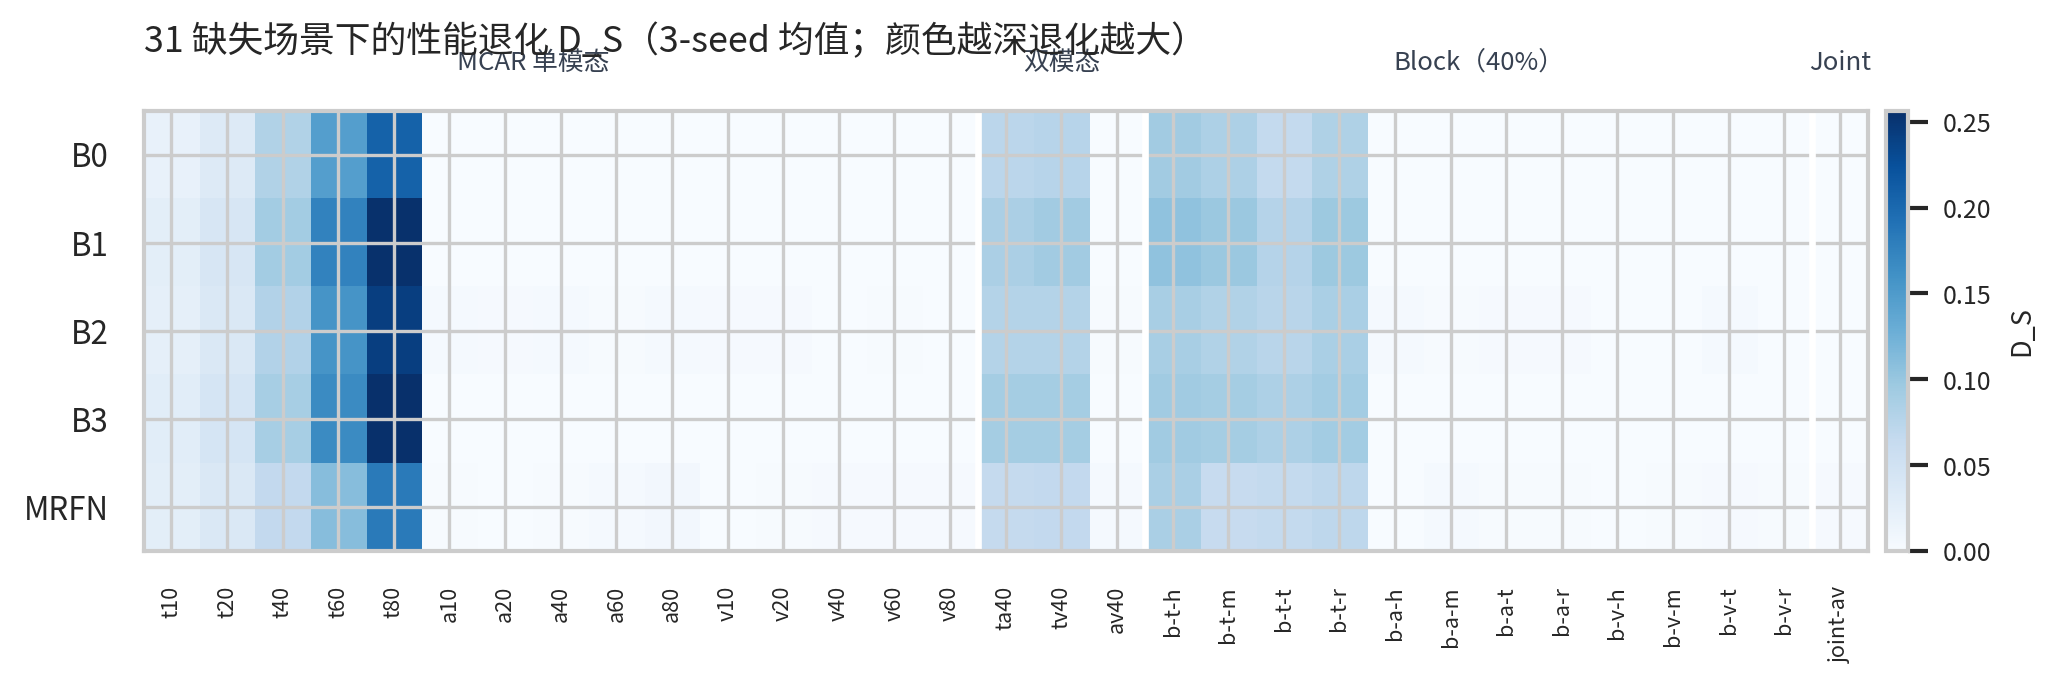
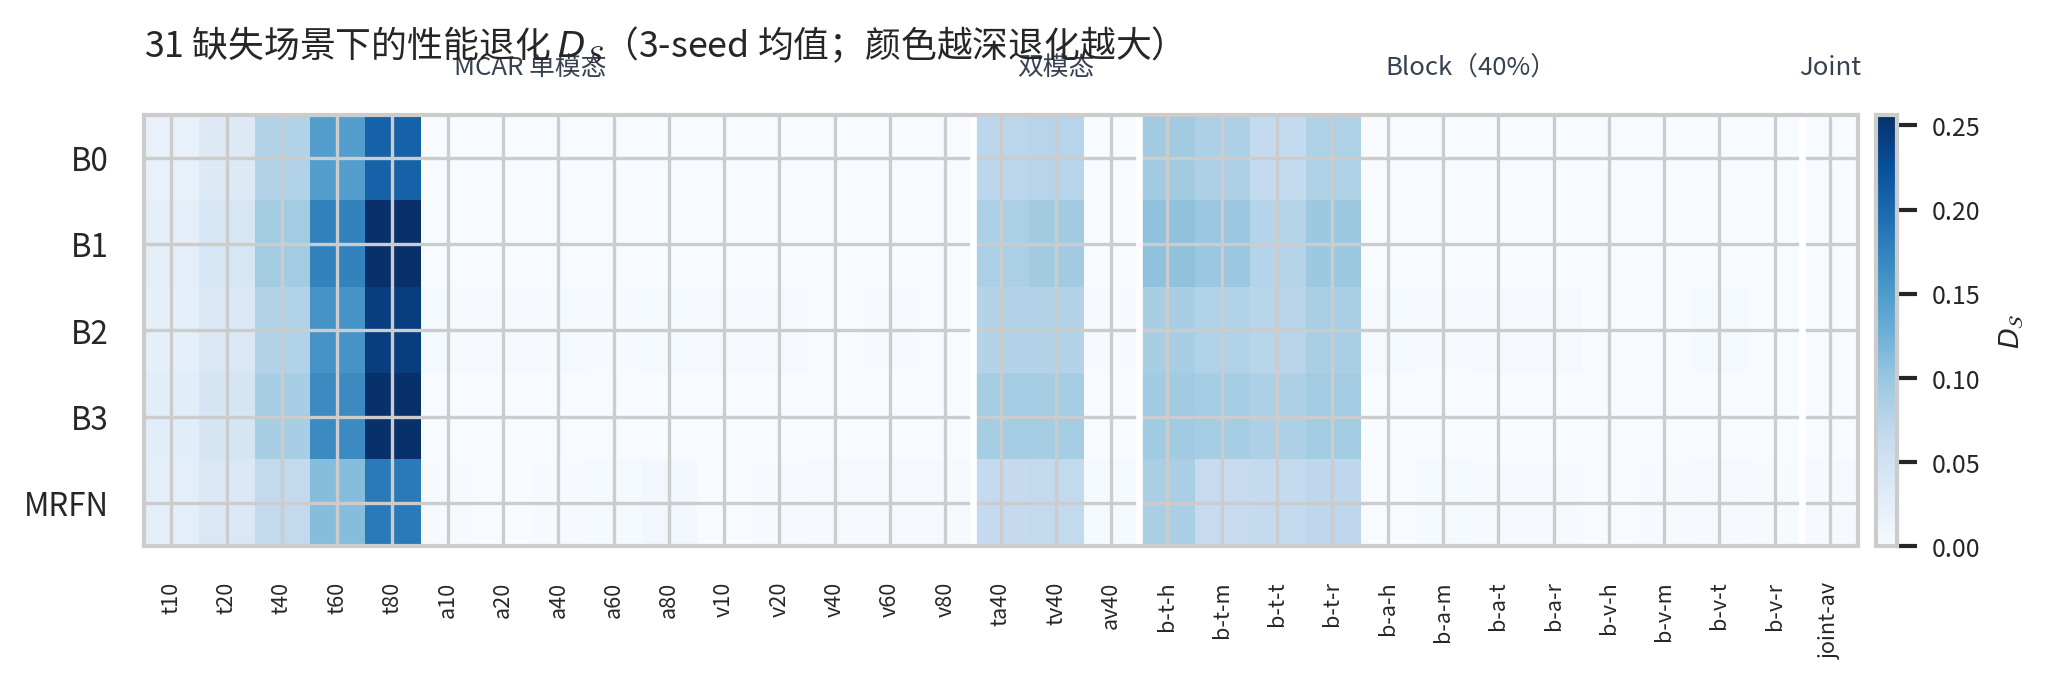
fix(paper): 5.1 可用性下限口径修正（31 场景全部满足；三模态全缺失不入网格）+ D_𝒮 显示串对齐
核对 plot_q2_results.py 冻结网格定义：31=M CAR 单模态×15+双模态@40×3+Block×12+joint-av×1，
无三模态场景，5.1 豁免条款据实修正

diff --git a/scripts/figures/plot_q2_results.py b/scripts/figures/plot_q2_results.py
@@ -123,11 +123,11 @@ def plot_scenario_heatmap() -> None:
         ax.axvline(x, color="white", lw=1.6)
     for txt, x in [("MCAR 单模态", 6.5), ("双模态", 16), ("Block（40%）", 23.5), ("Joint", 30)]:
         ax.text(x, -0.9, txt, ha="center", va="bottom", fontsize=6.2, color="#374151")
-    ax.set_title("31 缺失场景下的性能退化 D_S（3-seed 均值；颜色越深退化越大）",
+    ax.set_title("31 缺失场景下的性能退化 $D_{\\mathcal{S}}$（3-seed 均值；颜色越深退化越大）",
                  loc="left", fontsize=8.6, pad=14)
     cbar = fig.colorbar(im, ax=ax, fraction=0.03, pad=0.01)
     cbar.ax.tick_params(labelsize=6)
-    cbar.set_label("D_S", fontsize=6.5)
+    cbar.set_label("$D_{\\mathcal{S}}$", fontsize=6.5)
     FIG_OUT.mkdir(parents=True, exist_ok=True)
     fig.tight_layout(pad=0.7)
     fig.savefig(FIG_OUT / "q2_scenario_heatmap.pdf")
@@ -156,7 +156,7 @@ def write_tables() -> None:
         "  \\caption{模型阶梯表（附件2 test，clean 评估 + 31 场景均值退化；3-seed 均值，自动生成）}",
         "  \\label{tab:p2-ladder}",
         "  \\begin{tabular}{lrrrrrrr}", "    \\toprule",
-        "    模型 & 参数量 & Acc & macro-F1 & MAE & Pearson & $\mathcal{S}$ & $\\overline{D_S}$ \\\\",
+        "    模型 & 参数量 & Acc & macro-F1 & MAE & Pearson & $\mathcal{S}$ & $\\overline{D_{\\mathcal{S}}}$ \\\\",
         "    \\midrule", *rows, "    \\bottomrule", "  \\end{tabular}", "\\end{table}",
     ]), encoding="utf-8")
 

diff --git a/paper/latex/tables/p2_ladder.tex b/paper/latex/tables/p2_ladder.tex
@@ -4,7 +4,7 @@
   \label{tab:p2-ladder}
   \begin{tabular}{lrrrrrrr}
     \toprule
-    模型 & 参数量 & Acc & macro-F1 & MAE & Pearson & $\mathcal{S}$ & $\overline{D_S}$ \\
+    模型 & 参数量 & Acc & macro-F1 & MAE & Pearson & $\mathcal{S}$ & $\overline{D_{\mathcal{S}}}$ \\
     \midrule
     B0 & 81,284 & 0.637 & 0.600 & 0.662 & 0.634 & 0.736 & 0.029 \\
     B1 & 93,764 & 0.657 & 0.619 & 0.644 & 0.653 & 0.749 & 0.035 \\
